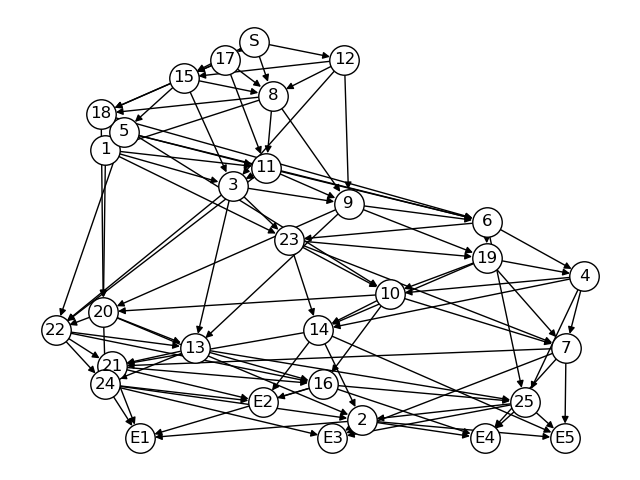
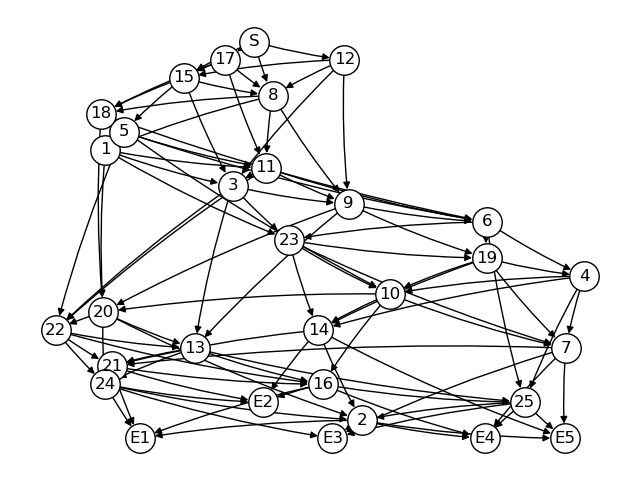
slight curve is used for edges in graph, so that there are no overlapping edges.

Changed region(s): [[0.0938, 0.0938, 0.9062, 0.9375], [0.7812, 0.4688, 0.8125, 0.5], [0.4375, 0.5312, 0.4688, 0.5625]]

diff --git a/generate_structure_graph.py b/generate_structure_graph.py
@@ -38,7 +38,8 @@ def generate_dot(graph_data):
 
     write_dot(G, "output/graph.dot")
     pos = graphviz_layout(G, prog='dot')
-    nx.draw(G, pos, with_labels=True, arrows=True, node_color='white', edgecolors='black', node_size=450)
+    nx.draw(G, pos, with_labels=True, arrows=True, node_color='white', edgecolors='black', node_size=450,
+            connectionstyle='arc3, rad = 0.04')
     plt.savefig("output/graph.png")
     plt.show()
 
